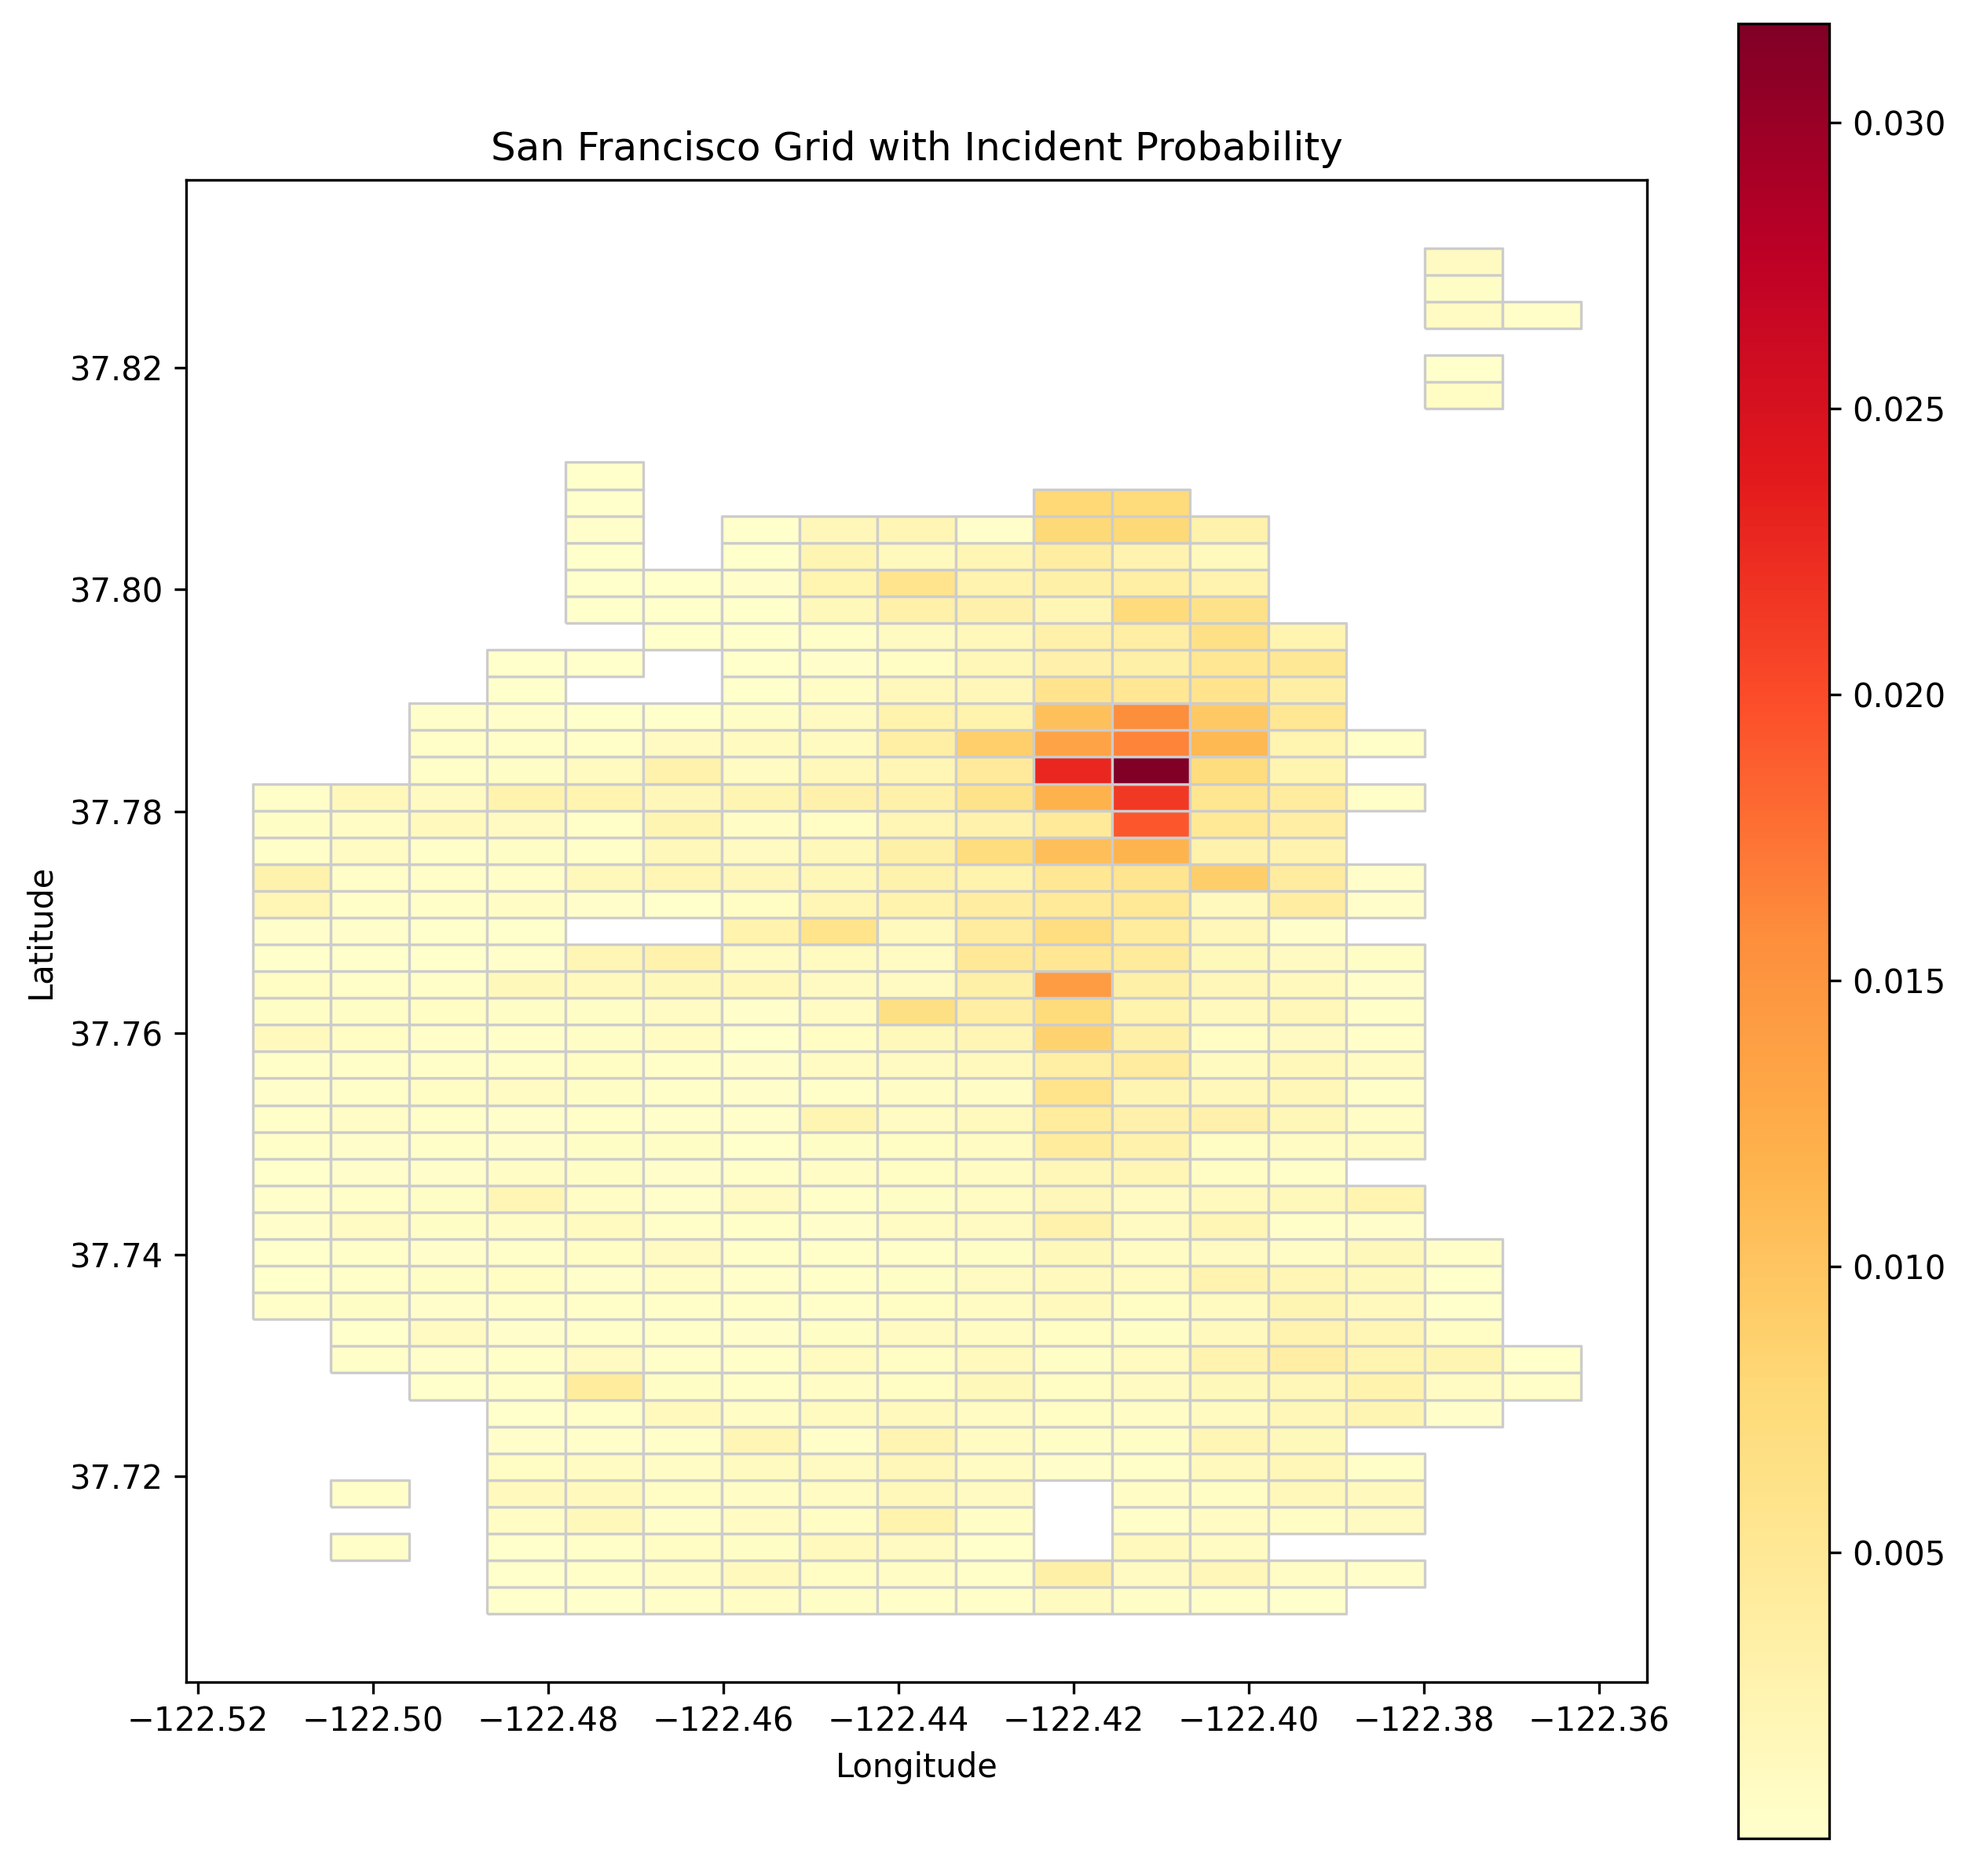
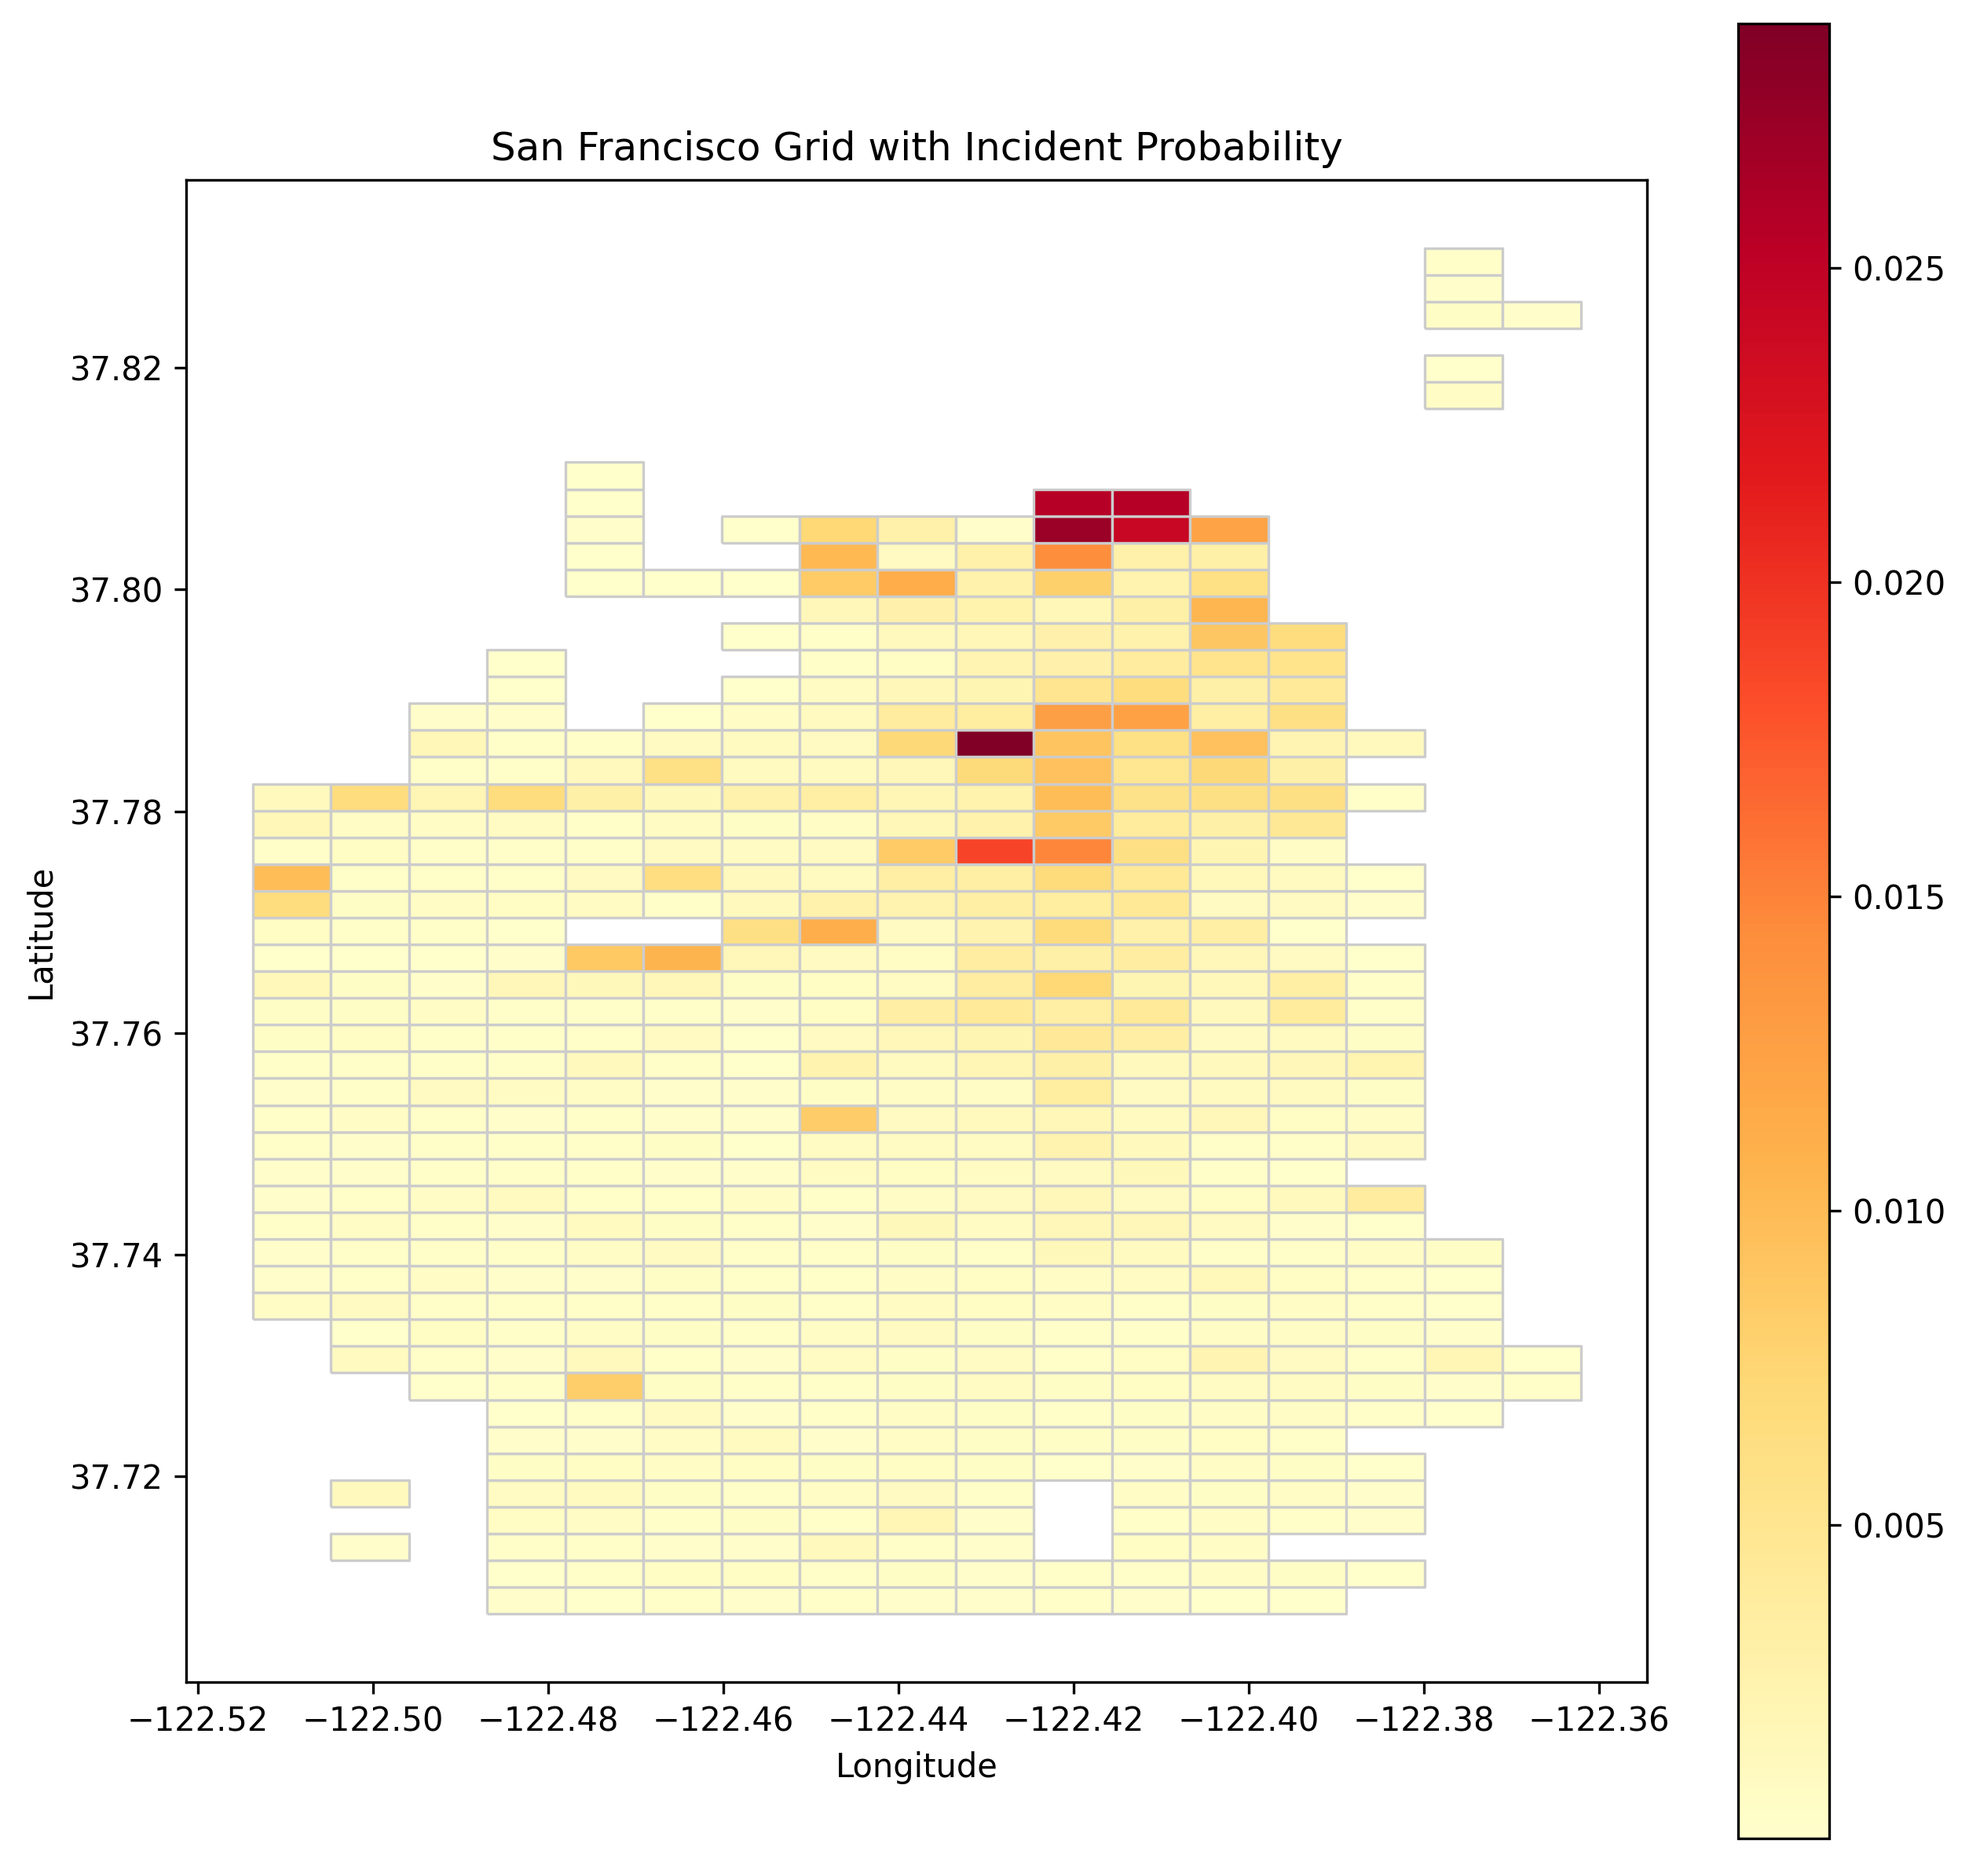
fixed heatmap grid creatino error, miscalulated total incidents per cell

diff --git a/frontend/sfpd_theft_app/src/components/TheftLocationsChart.js b/frontend/sfpd_theft_app/src/components/TheftLocationsChart.js
@@ -146,9 +146,10 @@ const TheftLocationsChart = () => {
 
     return (
         <div>
-            <h2>Most Common Locations of Theft in SF</h2>
+            <h2>Some More Data</h2>
             <StyledGrid>
                 <ChartContainer>
+                    <h3 style={{marginTop:''}}>Most Common Locations of Theft in SF</h3>
                     {chartData && (
                         <Bar
                             data={chartData}

diff --git a/frontend/sfpd_theft_app/src/components/LeafletMap.js b/frontend/sfpd_theft_app/src/components/LeafletMap.js
@@ -70,7 +70,7 @@ function LeafletMap() {
       }
 
       // Fetch the GeoJSON file and add the data to the heatmap layer
-      fetch('/sf_heatmap_detailed.geojson') // Relative path to the public directory
+      fetch('/sf_heatmap_detailed_v3.geojson') // Relative path to the public directory
         .then(response => response.json())
         .then(data => {
 

diff --git a/geo_grid/theft_incident_probability.py b/geo_grid/theft_incident_probability.py
@@ -118,14 +118,37 @@ def main():
     gdf = create_geodataframe(df)
     grid = load_grid('sf_finer_grid.geojson', gdf.crs)
     joined = perform_spatial_join(gdf, grid)
-    total_incidents = len(df)
-    incident_counts = calculate_incident_probabilities(joined, total_incidents)
+    
+    # Filter the data for theft from vehicles
+    theft_from_vehicle_data = joined[(joined['Incident Category'] == 'Larceny Theft') & (joined['Incident Subcategory'] == 'Larceny - From Vehicle')]
+    
+    total_theft_from_vehicle_incidents = len(theft_from_vehicle_data)
+    incident_counts_theft = calculate_incident_probabilities(theft_from_vehicle_data, total_theft_from_vehicle_incidents)
+    
+    # Calculate the total incident count per cell for theft from vehicles
+    total_incident_count_per_cell_theft = incident_counts_theft['incident_count'].sum()
+    
+    # Expected total incidents for theft from vehicles
+    expected_total_theft_incidents = 136938
+    
+    print("Total Incidents per Cell for Theft from Vehicles:", total_incident_count_per_cell_theft)
+    print("Expected Total Incidents for Theft from Vehicles:", expected_total_theft_incidents)
+    
+    # Compare the calculated total with the expected total for theft from vehicles
+    if total_incident_count_per_cell_theft == expected_total_theft_incidents:
+        print("Total Incidents per Cell for Theft from Vehicles is accurate.")
+    else:
+        print("Total Incidents per Cell for Theft from Vehicles is not accurate.")
+    
     aggregated_info = aggregate_info(joined)
     
-    # Uncomment the next line if I want to save the GeoJSON file
-    merge_and_save_data(grid, incident_counts, aggregated_info, 'sf_heatmap_detailed.geojson')
+    # Uncomment the next line if you want to save the GeoJSON file
+    merge_and_save_data(grid, incident_counts_theft, aggregated_info, 'sf_heatmap_detailed_v3.geojson')
 
-    plot_incident_map(grid.merge(incident_counts, on='cell_id', how='left'))
+    plot_incident_map(grid.merge(incident_counts_theft, on='cell_id', how='left'))
+
+
+
 
 
 if __name__ == "__main__":

diff --git a/backend/app.py b/backend/app.py
@@ -15,7 +15,7 @@ app = Flask(__name__)
 CORS(app)  # Configure CORS for your app
 
 # Load the pre-processed GeoJSON file
-grid = gpd.read_file('sf_heatmap_detailed_v2.geojson')
+grid = gpd.read_file('sf_heatmap_detailed_v3.geojson')
 
 # Initialize OpenCage Geocoder with API key
 geocoder = OpenCageGeocode("90989e6ade6247a7b36dde59f9b55adc")
